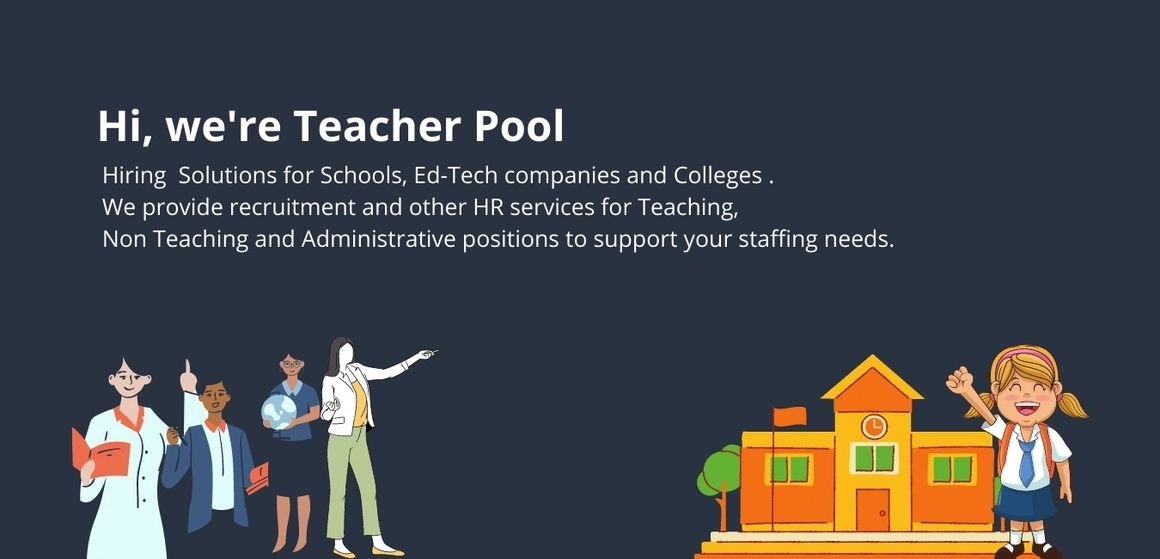
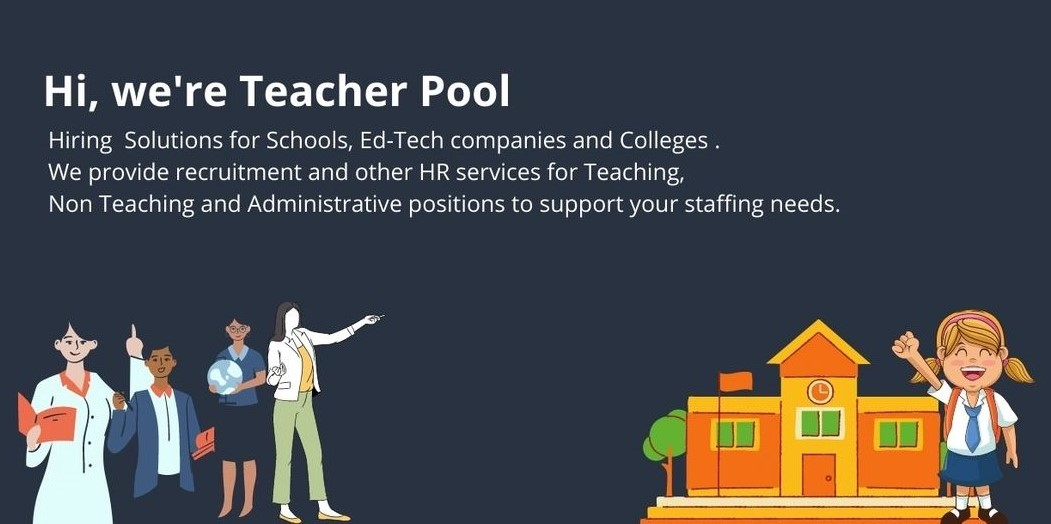
corrected css(5)

Changed region(s): [[0.0304, 0.1221, 0.7916, 0.458], [0.5785, 0.5802, 1.0, 1.0], [0.0, 0.5802, 0.3958, 1.0]]

diff --git a/teacherpool/src/screens/Home.jsx b/teacherpool/src/screens/Home.jsx
@@ -26,7 +26,9 @@ const Home = () => {
       <NavBar />
 
       <div className="herobanner">
-        <img src={herobanner} alt={"Introduction"} />
+        <div className="herobanner-img">
+          <img src={herobanner} alt={"Introduction"} />
+        </div>
         <h1>Search Talent for your School</h1>
         <span>
           Looking for Teaching, Non Teaching and Administrative staffs for your
@@ -74,7 +76,7 @@ const Home = () => {
                 <div className="row gy-4">
                   <div className="col-12 col-sm-6">
                     <div className="card border-0 border-bottom border-primary shadow-sm">
-                      <div className="card-body text-center p-4 p-xxl-5">
+                      <div className="card-body-1 text-center p-4 p-xxl-5">
                         <img src={hiring} alt={"Hiring"} />
                         <h4 className="mb-4">Teaching/Non Teaching Hiring</h4>
                         <p className="mb-4 text-secondary">
@@ -89,7 +91,7 @@ const Home = () => {
                   </div>
                   <div className="col-12 col-sm-6">
                     <div className="card border-0 border-bottom border-primary shadow-sm">
-                      <div className="card-body text-center p-4 p-xxl-5">
+                      <div className="card-body-1 text-center p-4 p-xxl-5">
                         <img src={onboarding} alt={"Onboarding"} />
                         <h4 className="mb-4">
                           Employee On Boarding Assistance
@@ -105,7 +107,7 @@ const Home = () => {
                   </div>
                   <div className="col-12 col-sm-6">
                     <div className="card border-0 border-bottom border-primary shadow-sm">
-                      <div className="card-body text-center p-4 p-xxl-5">
+                      <div className="card-body-1 text-center p-4 p-xxl-5">
                         <img src={handbook} alt={"Handbook"} />
                         <h4 className="mb-4">Employee Handbook</h4>
                         <p className="mb-4 text-secondary">
@@ -120,7 +122,7 @@ const Home = () => {
                   </div>
                   <div className="col-12 col-sm-6">
                     <div className="card border-0 border-bottom border-primary shadow-sm">
-                      <div className="card-body text-center p-4 p-xxl-5">
+                      <div className="card-body-1 text-center p-4 p-xxl-5">
                         <img src={interview} alt={"interview"} />
                         <h4 className="mb-4">Exit Interview</h4>
                         <p className="mb-4 text-secondary">
@@ -147,7 +149,7 @@ const Home = () => {
               <div className="col-sm-6 col-lg-4">
                 <div className="box">
                   <img src={absorbed} alt="" />
-                  <div className="box-content">
+                  <div className="text-center box-content">
                     <h4>Client-Centric</h4>
                     <p>
                       Understanding the client, evaluating their requirements
@@ -160,7 +162,7 @@ const Home = () => {
               <div className="col-sm-6 col-lg-4">
                 <div className="box">
                   <img src={experts} alt="" />
-                  <div className="box-content">
+                  <div className="text-center box-content">
                     <h4>Professionalism and Dedication</h4>
                     <p>
                       Our commitment to professionalism ensures dedicated
@@ -173,7 +175,7 @@ const Home = () => {
               <div className="col-sm-6 col-lg-4">
                 <div className="box">
                   <img src={time} alt="" />
-                  <div className="box-content">
+                  <div className="text-center box-content">
                     <h4>Expat Recruitment Services</h4>
                     <p>
                       Specializing in recruiting international talent, we offer
@@ -186,7 +188,7 @@ const Home = () => {
               <div className="col-sm-6 col-lg-4">
                 <div className="box">
                   <img src={social_dashboard} alt="" />
-                  <div className="box-content">
+                  <div className="text-center box-content">
                     <h4>Marketing of your Organization</h4>
                     <p>
                       We enhance your organization's visibility through
@@ -199,7 +201,7 @@ const Home = () => {
               <div className="col-sm-6 col-lg-4">
                 <div className="box">
                   <img src={personalization} alt="" />
-                  <div className="box-content">
+                  <div className="text-center box-content">
                     <h4>Customized Service Models</h4>
                     <p>
                       Tailoring our services to your unique needs, we provide
@@ -212,7 +214,7 @@ const Home = () => {
               <div className="col-sm-6 col-lg-4">
                 <div className="box">
                   <img src={web_devices} alt="" />
-                  <div className="box-content">
+                  <div className="text-center box-content">
                     <h4>Tech-Driven Solutions</h4>
                     <p>
                       We employ cutting-edge technology for a streamlined and

diff --git a/teacherpool/src/screens/Blog.jsx b/teacherpool/src/screens/Blog.jsx
@@ -37,8 +37,7 @@ const Blogs = () => {
     fetchData();
   }, []);
 
-  if (loading) return <div>Loading...</div>;
-  if (error) return <div>Error!</div>;
+  if (error) return <h1>Error!</h1>;
 
   const searchItems = (searchValue) => {
     setSearchInput(searchValue);
@@ -58,36 +57,40 @@ const Blogs = () => {
   return (
     <>
       <NavBar />
-      <div className="blog-body">
-        <div className="search-box">
-          <span>Blogs from Teacher Pool</span>
-          <input
-            placeholder="Search..."
-            onChange={(e) => searchItems(e.target.value)}
-          />
-        </div>
-        {data.length > 0 && searchInput.length > 1
-          ? filteredResults.map((blog) => {
-            return (
-              <Card
-                image={blog.featuredImage}
-                date={blog.date.substring(0, 10)}
-                title={blog.title}
-                content={blog.content}
-                categories={blog.categories}
-              />
-            );
-          })
-          : data.map((blog) => (
-            <Card
-              image={blog.featuredImage}
-              date={blog.date.substring(0, 10)}
-              title={blog.title}
-              content={blog.content}
-              categories={blog.categories}
+      {loading ? (
+        <h1 className="loading">Loading...</h1>
+      ) : (
+        <div className="blog-body">
+          <div className="search-box">
+            <span>Blogs from Teacher Pool</span>
+            <input
+              placeholder="Search..."
+              onChange={(e) => searchItems(e.target.value)}
             />
-          ))}
-      </div>
+          </div>
+          {data.length > 0 && searchInput.length > 1
+            ? filteredResults.map((blog) => {
+                return (
+                  <Card
+                    image={blog.featuredImage}
+                    date={blog.date.substring(0, 10)}
+                    title={blog.title}
+                    content={blog.content}
+                    categories={blog.categories}
+                  />
+                );
+              })
+            : data.map((blog) => (
+                <Card
+                  image={blog.featuredImage}
+                  date={blog.date.substring(0, 10)}
+                  title={blog.title}
+                  content={blog.content}
+                  categories={blog.categories}
+                />
+              ))}
+        </div>
+      )}
       <Footer />
     </>
   );

diff --git a/teacherpool/src/styles/Home.css b/teacherpool/src/styles/Home.css
@@ -9,9 +9,15 @@
     padding: 20px;
 }
 
-.herobanner img {
-    max-width: 85%;
-    margin-bottom: 20px;
+.herobanner-img {
+    width: 85%;
+    height: auto;
+    overflow: hidden;
+}
+
+.herobanner-img img {
+    width: 100%;
+    height: 100%;
 }
 
 .herobanner h1 {
@@ -92,8 +98,8 @@
 @import url("https://unpkg.com/bs-brain@2.0.3/components/services/service-5/assets/css/service-5.css");
 @import url("https://stackpath.bootstrapcdn.com/bootstrap/4.5.0/css/bootstrap.min.css");
 
-.card-body {
-    color: #39597b !important;
+.card-body-1 {
+    color: #39597b;
 }
 
 .why-us h1 {
@@ -128,19 +134,25 @@
         padding: 8px;
     }
 
-    .herobanner img {
-        max-width: 100%;
-        margin-bottom: 10px;
+    .herobanner-img {
+        width: 100%;
+        height: auto;
+        overflow: hidden;
+    }
+
+    .herobanner-img img {
+        width: 100%;
+        height: 100%;
     }
 
     .herobanner h1 {
         text-shadow: 1px 1px 1px #000000;
         margin: 10px 0;
-        font-size: 25px;
+        font-size: 30px;
     }
 
     .herobanner span {
-        font-size: 15px;
+        font-size: 20px;
         width: 90%;
         margin: 0;
     }

diff --git a/teacherpool/src/styles/Blog.css b/teacherpool/src/styles/Blog.css
@@ -1,10 +1,18 @@
+.loading {
+	height: 70vh;
+	display: flex;
+	text-align: center;
+	justify-content: center;
+	align-items: center;
+}
+
 .blog-body {
 	background-color: hsl(211, 20%, 70%);
-	padding: 0 5%;
+	padding: 5px 5%;
 }
 
 .search-box {
-	margin-bottom: 10px;
+	margin: 10px -10px;
 	display: flex;
 	justify-content: space-evenly;
 	align-items: center;
@@ -12,16 +20,14 @@
 
 .search-box span {
 	font-size: 40px;
-	margin-left: -10px;
+	padding-right: 20px;
 	color: #39597b;
 	font-family: cursive;
 	font-weight: 800;
 }
 
 .search-box input {
-	float: inline-end;
 	padding: 10px 15px;
-	width: 30%;
 	max-width: 300px;
 	min-width: 100px;
 	border: none;
@@ -31,4 +37,11 @@
 .search-box input::placeholder {
 	font-weight: 500px;
 	font-size: 20px;
+}
+
+@media (max-width: 768px) {
+    .search-box span {
+		font-size: 25px;
+		padding-right: 10px;
+	}
 }
